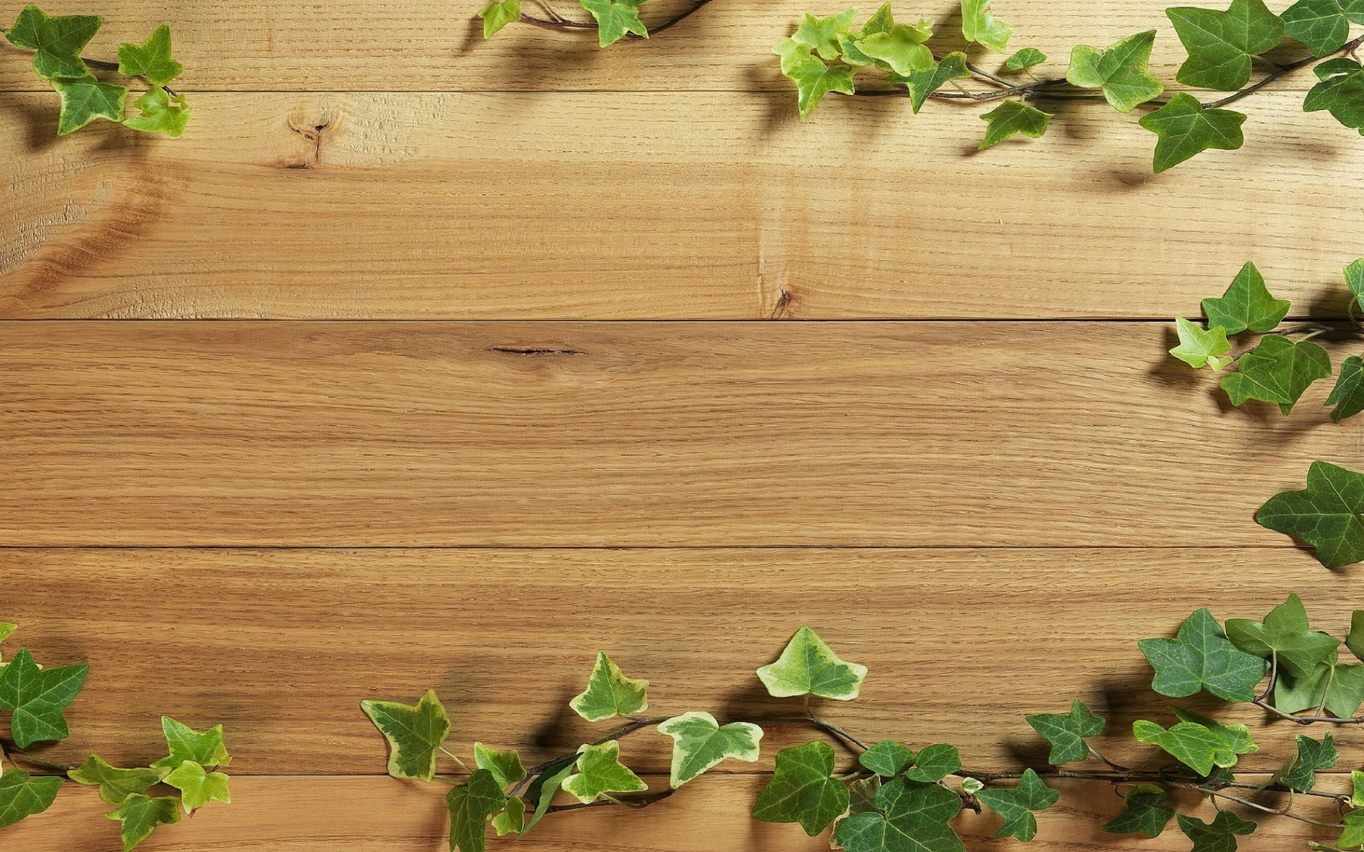
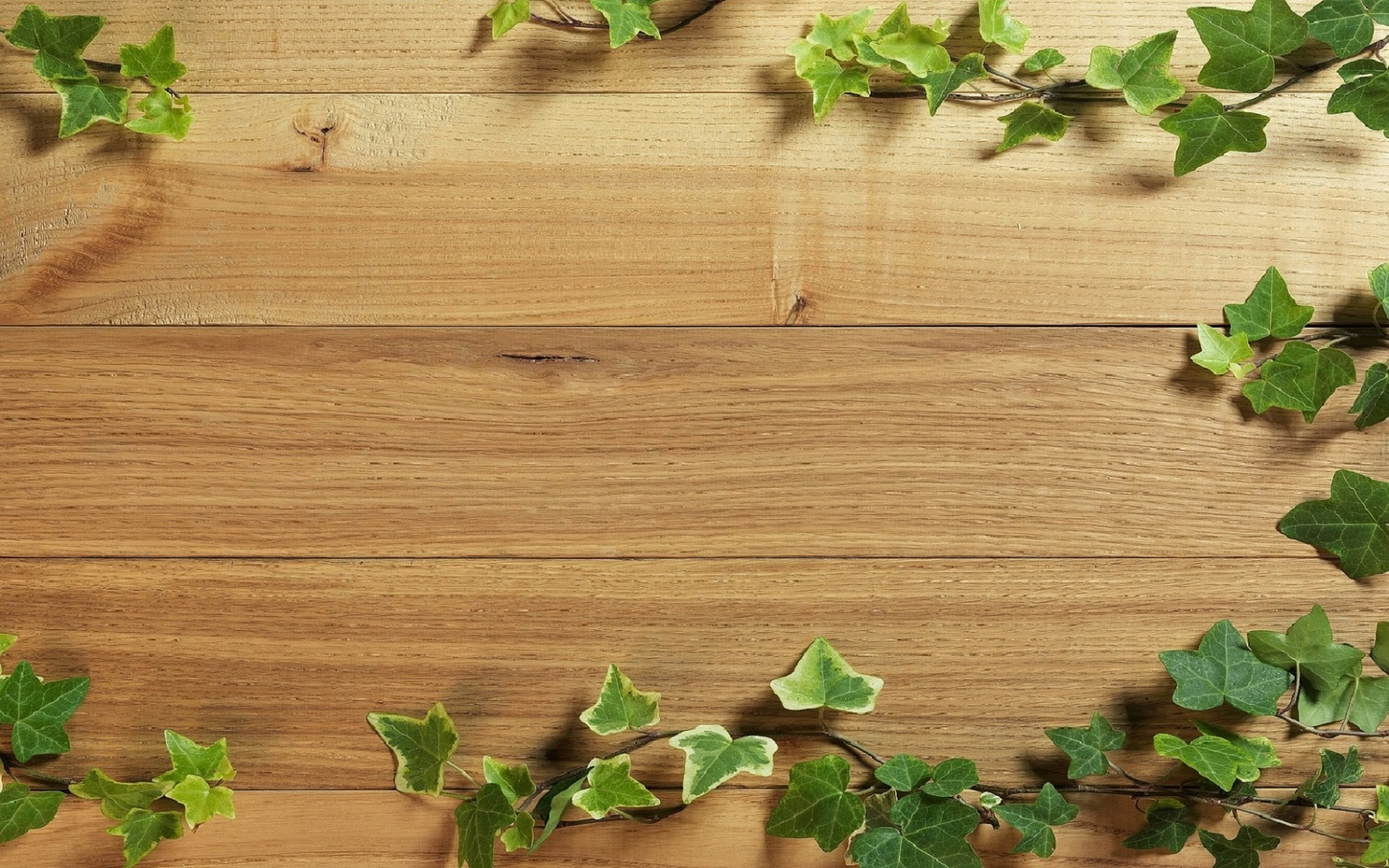
Színek már szebbek

Changed region(s): [[0.9642, 0.9055, 0.9953, 0.9367], [0.902, 0.9055, 0.9331, 0.9367], [0.6842, 0.0937, 0.7153, 0.1249]]

diff --git a/CarcassonneClient/src/view/FXMLGameController.java b/CarcassonneClient/src/view/FXMLGameController.java
@@ -301,10 +301,10 @@ public class FXMLGameController extends Group implements Initializable {
     
     private Color getColorOfNumber(int num) {
         switch(num) {
-            case 0 : return Color.BLUE;
+            case 0 : return Color.rgb(30,144,255);
             case 1 : return Color.RED;
-            case 2 : return Color.rgb(255, 148, 5);
-            case 3 : return Color.GREEN;
+            case 2 : return Color.rgb(218,165,32);
+            case 3 : return Color.rgb(46,139,87);
             case 4 : return Color.BLACK;
             default : System.err.println("Ilyen id nem létezik!"); return null;
         }
@@ -357,7 +357,7 @@ public class FXMLGameController extends Group implements Initializable {
         img.setFitHeight(200);
         img.setFitWidth(200);
         
-        new InformationDialog("A kártyát nem lehet elhelyezni", "A kártyát nem lehet elhelyezni a táblán. Továbbra is Te következel, húzz egy másik kártyát!", img);
+        new InformationDialog("A kártyát nem lehet elhelyezni", "Az általad kihúzott kártyát nem lehet elhelyezni a táblán. Továbbra is Te következel, húzz egy másikat!", img);
         
         removePreviousIllegalPlacesOnTable();
         imageView.setImage(new Image("file:src/resources/images/empty.jpg"));
@@ -432,16 +432,16 @@ public class FXMLGameController extends Group implements Initializable {
             followers[i].setText(followerNumbers[i] + " alattvaló");
         }
         for(Point p : freeCircles) {
-            if(circles.get(p).getFill().equals(Color.BLUE)) {
-                circles.get(p).setFill(Color.LIGHTBLUE);
+            if(circles.get(p).getFill().equals(Color.rgb(30,144,255))) {
+                circles.get(p).setFill(Color.rgb(176,224,230));
             } else if(circles.get(p).getFill().equals(Color.RED)) {
-                circles.get(p).setFill(Color.PINK);
-            } else if(circles.get(p).getFill().equals(Color.GREEN)) {
-                circles.get(p).setFill(Color.LIGHTGREEN);
-            } else if(circles.get(p).getFill().equals(Color.rgb(255, 148, 5))) {
-                circles.get(p).setFill(Color.rgb(255,236,139));
+                circles.get(p).setFill(Color.rgb(255,160,122));
+            } else if(circles.get(p).getFill().equals(Color.rgb(218,165,32))) {
+                circles.get(p).setFill(Color.rgb(238,232,170));
+            } else if(circles.get(p).getFill().equals(Color.rgb(46,139,87))) {
+                circles.get(p).setFill(Color.rgb(152,251,152));
             } else if(circles.get(p).getFill().equals(Color.BLACK)) {
-                circles.get(p).setFill(Color.LIGHTGRAY);
+                circles.get(p).setFill(Color.rgb(190,190,190));
             }
         }
         delegate.nextPlayersTurn();

diff --git a/CarcassonneServer/src/carcassonneserver/CarcassonneServer.java b/CarcassonneServer/src/carcassonneserver/CarcassonneServer.java
@@ -137,7 +137,7 @@ public class CarcassonneServer extends Observable implements RmiService {
             try {
                 ro.update(o.toString(), arg);
             } catch (RemoteException e) {
-                System.out.println("Remote exception removing observer:" + this);
+              /*  System.out.println("Remote exception removing observer:" + this);
                 o.deleteObserver(this);
                 if(countObservers() == 0) {
                     joinPlayersThread.interrupt();
@@ -151,7 +151,7 @@ public class CarcassonneServer extends Observable implements RmiService {
                 }
                 if(!gameIsNotStartedOrEnded) {
                     gameIsOverBecauseSomebodyQuitted();
-                }
+                }*/
             }
         }
     }
@@ -163,6 +163,27 @@ public class CarcassonneServer extends Observable implements RmiService {
         playerObservers.add(wrappedObserver);    
         addObserver(wrappedObserver);
         System.out.println("Added observer:" + wrappedObserver);
+    }
+    
+    @Override
+    public void quitFromGame(RemoteObserver o) throws RemoteException {
+        System.out.println("Remote exception removing observer:" + this);
+        WrappedObserver w = null;
+        for(WrappedObserver wo : playerObservers) {
+            if(wo.ro.equals(o)) {
+                w = wo;
+                names.remove(wo.name);
+            }
+        }
+        playerObservers.remove(w);
+        deleteObserver(w);
+        if(countObservers() == 0) {
+            joinPlayersThread.interrupt();
+            interval = STARTERINTERVAL;
+        }
+        if(!gameIsNotStartedOrEnded) {
+            gameIsOverBecauseSomebodyQuitted();
+        }
     }
     
     private void gameIsOverBecauseSomebodyQuitted() {
@@ -239,8 +260,11 @@ public class CarcassonneServer extends Observable implements RmiService {
     
     @Override
     public void chooseFaceDownLandTileDone() throws RemoteException {
+        System.out.println("Végzet a kihúzással");
         asd++;
+        System.out.println("asd: " + asd);
         if(!gameIsNotStartedOrEnded && carcassonneGameModel.getTurn() >= playerObservers.size() && asd%countObservers() == 0) {
+            System.out.println("és még ide is belépett.");
             try {
                 artificialIntelligences.get(carcassonneGameModel.getTurn()-playerObservers.size()).decideBestLocation();
             } catch (InterruptedException ex) {

diff --git a/CarcassonneServer/src/model/CarcassonneGameModel.java b/CarcassonneServer/src/model/CarcassonneGameModel.java
@@ -721,6 +721,7 @@ public class CarcassonneGameModel {
             System.out.println("Játékosok száma másodszor: " + players.length);
             System.out.println("MÉRET: " + players[i].getLocatedFollowers().size());
             for (Follower f : players[i].getLocatedFollowers()) {
+                System.out.println(f.getLocation().x + ", " + f.getLocation().y);
                 LandTile lt = cells[f.getLocation().x][f.getLocation().y].getLandTile();
                 if (lt.getType(f.getContPartInd()) == ROAD) {
                     pointPart = roadAndCityPointsRecursive(lt, f.getContPartInd());
@@ -765,6 +766,7 @@ public class CarcassonneGameModel {
                 for (int i = 0; i < cells[p.x][p.y].getLandTile().getContinuousParts().length; i++) {
                     if (cells[p.x][p.y].getLandTile().getType(cells[p.x][p.y].getLandTile().getContinuousParts()[i][0]) == FIELD && !cells[p.x][p.y].getLandTile().getReserved(cells[p.x][p.y].getLandTile().getContinuousParts()[i][0]).isEmpty()
                             && (fols.get(j).isEmpty() || !fols.get(j).contains(cells[p.x][p.y].getLandTile().getReserved(cells[p.x][p.y].getLandTile().getContinuousParts()[i][0]).get(0))) && isFieldNeighborWithTheCity(p, cells[p.x][p.y].getLandTile().getContinuousParts()[i])) {
+                        
                         //kiiratás
                         List<Integer> freq = mivan(cells[p.x][p.y].getLandTile().getContinuousParts()[i][0], cells[p.x][p.y].getLandTile());
                         System.out.print(p + " helyen: freq: " + freq + ", akik rajta vannak: ");

diff --git a/CarcassonneServer/src/artificialintelligence/CarcassonneAI.java b/CarcassonneServer/src/artificialintelligence/CarcassonneAI.java
@@ -50,14 +50,15 @@ public class CarcassonneAI {
     }
     
     public void chooseLandTile() throws RemoteException, InterruptedException {
-        int ind = random.nextInt(pointsOfLandTilesCanBeChosed.size());
-        Point point = pointsOfLandTilesCanBeChosed.get(ind);
         String message;
         do {
+            int ind = random.nextInt(pointsOfLandTilesCanBeChosed.size());
+            Point point = pointsOfLandTilesCanBeChosed.get(ind);
             System.out.println("itt vagyok: " + delegate); 
             message = delegate.chooseFaceDownLandTile(point);
             System.out.println("itt vagyok: " + message);
-        }while(!message.equals("success"));
+        }while(!message.equals("success") && !message.equals("multipleChoose"));
+        System.out.println("RÁADÁSUL KI IS LÉPETT");
         rule = 100;
         rotate = -1;
         tablePosition = new Point(-1,-1);

diff --git a/CarcassonneClient/src/carcassonneclient/CarcassonneClient.java b/CarcassonneClient/src/carcassonneclient/CarcassonneClient.java
@@ -9,6 +9,8 @@ import javafx.stage.Stage;
 import java.io.IOException;
 import java.net.URISyntaxException;
 import java.rmi.RemoteException;
+import java.util.logging.Level;
+import java.util.logging.Logger;
 import javafx.event.EventHandler;
 import javafx.geometry.Rectangle2D;
 import javafx.scene.Group;
@@ -39,6 +41,11 @@ public class CarcassonneClient extends Application {
         
         primaryStage.setOnCloseRequest(new EventHandler<WindowEvent>() {
            @Override public void handle(WindowEvent t) {
+               try {
+                   controller.quitFromGame();
+               } catch (RemoteException ex) {
+                   Logger.getLogger(CarcassonneClient.class.getName()).log(Level.SEVERE, null, ex);
+               }
                System.exit(0);
            }
         });

diff --git a/CarcassonneClient/src/controller/CommunicationController.java b/CarcassonneClient/src/controller/CommunicationController.java
@@ -7,6 +7,7 @@ import carcassonneshared.RmiService;
 import java.awt.Point;
 import java.io.IOException;
 import java.rmi.Naming;
+import java.rmi.NotBoundException;
 import java.rmi.RemoteException;
 import java.rmi.server.UnicastRemoteObject;
 import java.util.List;
@@ -344,6 +345,12 @@ public class CommunicationController extends UnicastRemoteObject implements Remo
 
         } catch (IOException ex) {
             System.err.println("Nem sikerült betölteni az fxml-t!");
+        }
+    }
+    
+    public void quitFromGame() throws RemoteException {
+        if(remoteService != null) {
+            remoteService.quitFromGame(this);
         }
     }
     

diff --git a/CarcassonneServer/src/model/player/Player.java b/CarcassonneServer/src/model/player/Player.java
@@ -87,6 +87,7 @@ public class Player {
         List<Follower> locatedFollowers = new ArrayList<>();
         for(Follower f : followers) {
             if(!(f.getLocation().x == -1 || f.getLocation().y == -1)) {
+                System.out.println("playersnél: " + f.getLocation());
                 locatedFollowers.add(f);
             }
         }

diff --git a/CarcassonneShared/src/carcassonneshared/RmiService.java b/CarcassonneShared/src/carcassonneshared/RmiService.java
@@ -29,4 +29,6 @@ public interface RmiService extends Remote{
     void locateFollower(int where) throws RemoteException;
     
     void countPoints() throws RemoteException;
+    
+    void quitFromGame(RemoteObserver o) throws RemoteException;
 }
